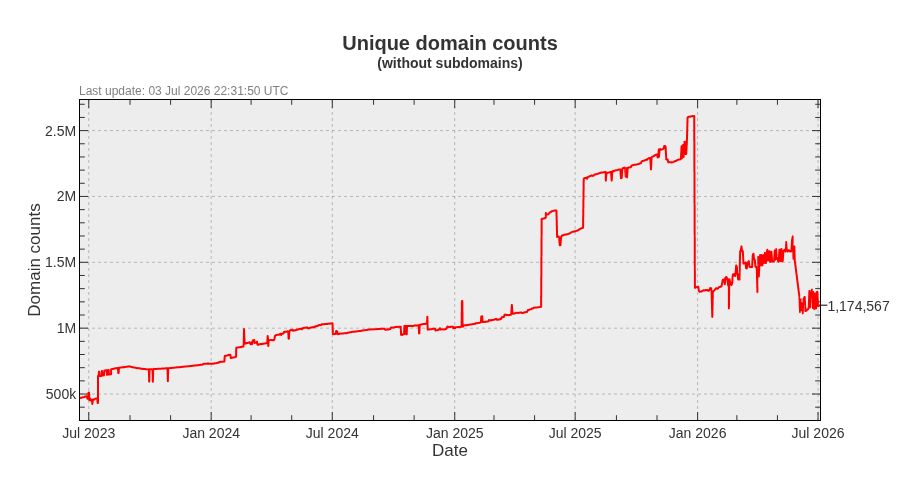
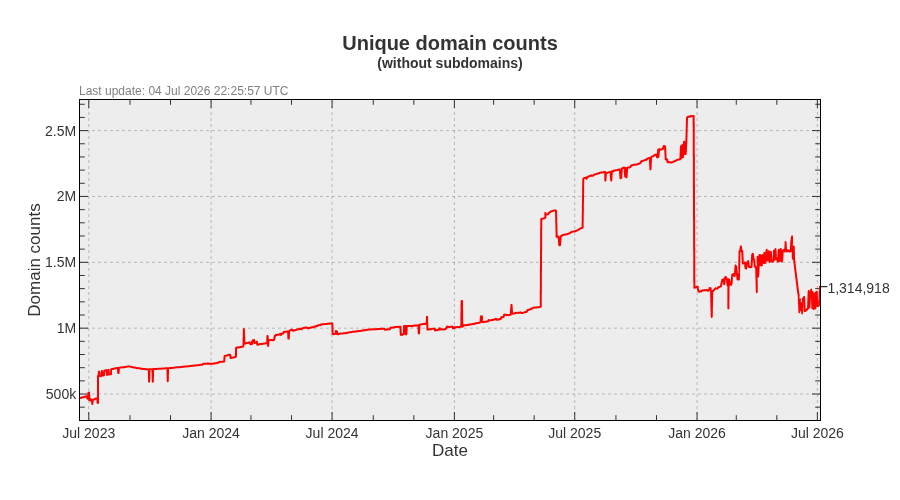
Update pages

diff --git a/README.md b/README.md
@@ -3,22 +3,22 @@ A blocklist file for blocking ads, trackers and malware domains.
 
[1 lines of base64/hex data omitted]
 
-- Unique domains: 1,840,302
-- Without subdomains: 1,174,567
-- Last update: 03 Jul 2026 22:31:50 UTC
-- Version: 2026.07.03.01
+- Unique domains: 1,988,150
+- Without subdomains: 1,314,918
+- Last update: 04 Jul 2026 22:25:57 UTC
+- Version: 2026.07.04.01
 
 
 ## Downloads:
 
 | Format             | Domain count      | Download Link |
 |------------------ | -----------------|-------------|
-| *Adblock Plus*     | 1,174,567 | [bad-hosts-abp](https://dl.cenk.app/bad-hosts/bad-hosts-abp) |
-| *Wildcard domains* | 1,174,567 | [bad-hosts-wildcard](https://dl.cenk.app/bad-hosts/bad-hosts-wildcard) |
-| *dnsmasq*          | 1,174,567 | [bad-hosts-dnsmasq](https://dl.cenk.app/bad-hosts/bad-hosts-dnsmasq) |
-| *hosts*            | 1,840,302 | [hosts](https://dl.cenk.app/bad-hosts/hosts) |
-| *hosts (ipv6)*     | 1,840,302 | [hosts-ipv6](https://dl.cenk.app/bad-hosts/hosts-ipv6) |
-| *Plain domains*    | 1,840,302 | [bad-hosts-domains](https://dl.cenk.app/bad-hosts/bad-hosts-domains) |
+| *Adblock Plus*     | 1,314,918 | [bad-hosts-abp](https://dl.cenk.app/bad-hosts/bad-hosts-abp) |
+| *Wildcard domains* | 1,314,918 | [bad-hosts-wildcard](https://dl.cenk.app/bad-hosts/bad-hosts-wildcard) |
+| *dnsmasq*          | 1,314,918 | [bad-hosts-dnsmasq](https://dl.cenk.app/bad-hosts/bad-hosts-dnsmasq) |
+| *hosts*            | 1,988,150 | [hosts](https://dl.cenk.app/bad-hosts/hosts) |
+| *hosts (ipv6)*     | 1,988,150 | [hosts-ipv6](https://dl.cenk.app/bad-hosts/hosts-ipv6) |
+| *Plain domains*    | 1,988,150 | [bad-hosts-domains](https://dl.cenk.app/bad-hosts/bad-hosts-domains) |
 
 ## Domain count history
 ### With subdomains
